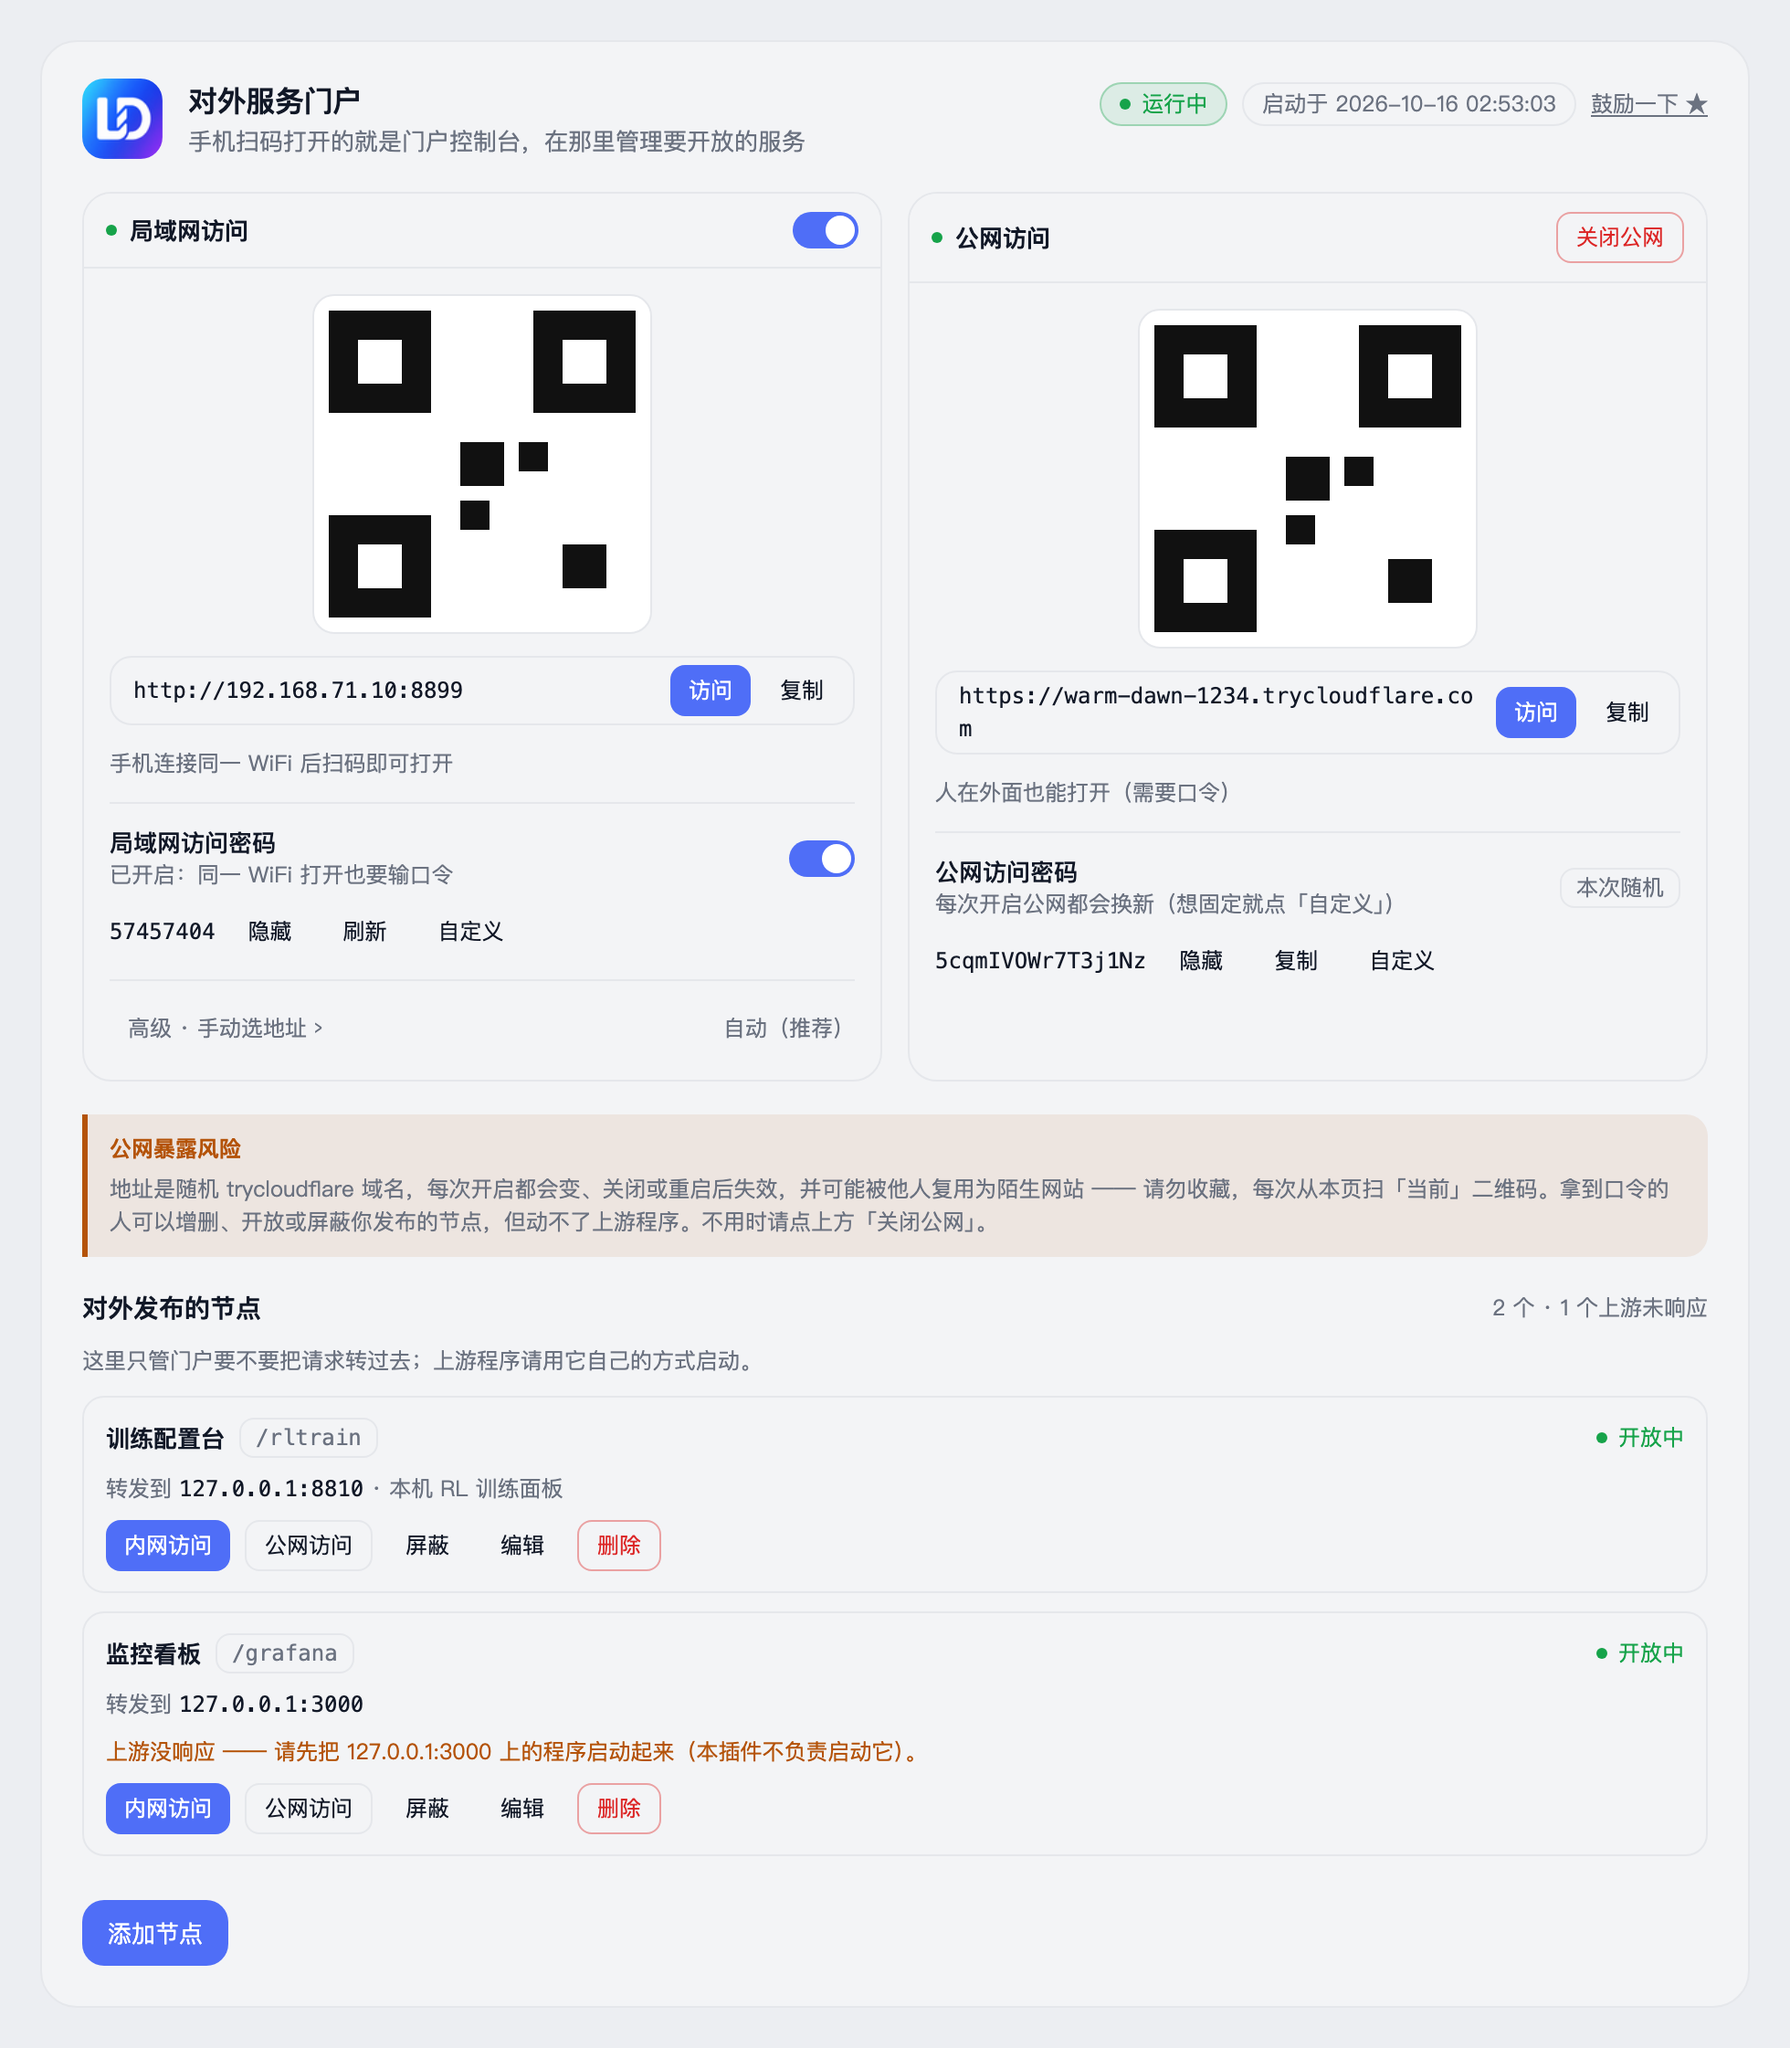
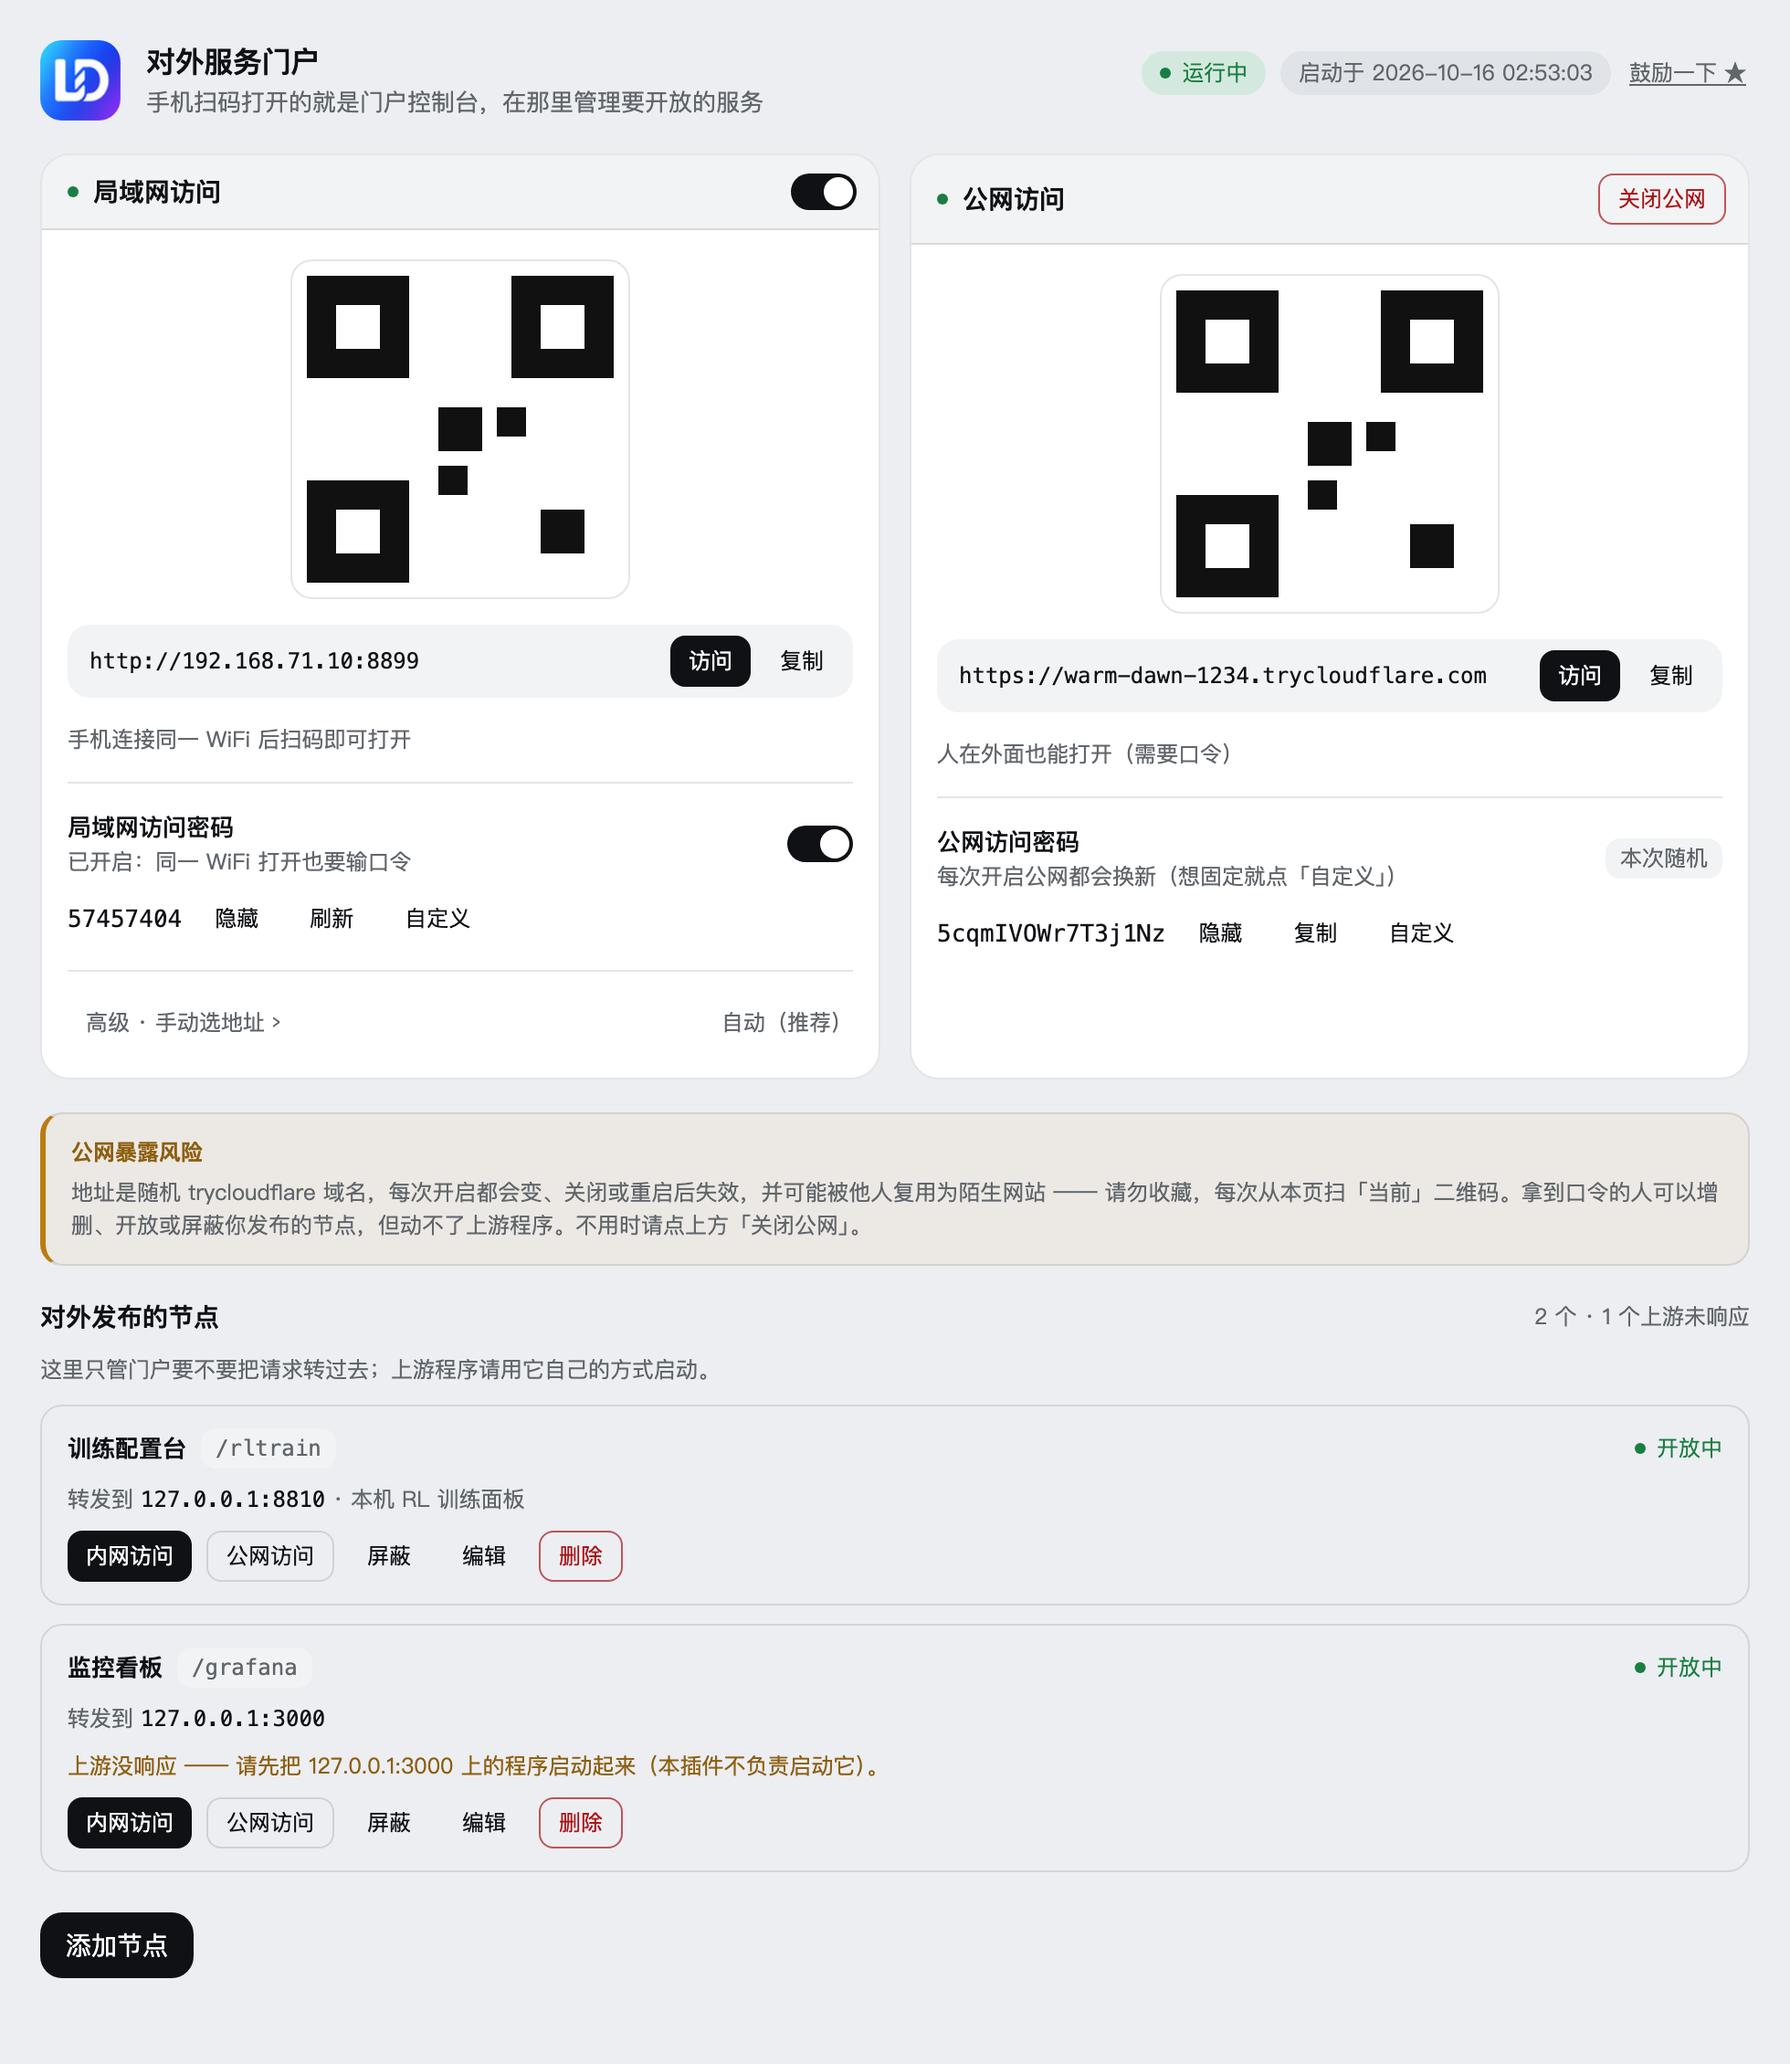
revert: 撤销 100 字详情文档，插件详情页恢复渲染完整 README（1.1.0 补）
与兄弟插件 dsh-subagent-default-model 2.1.19 同一条：meta.detail 依赖
「路径正确 + 语言链命中」这类隐式约定，失败时静默回落到包根 README、
界面看不出问题；而它唯一的作用只是缩短显示文本。

- 删除 docs/DETAIL.zh.md、docs/DETAIL.md
- locale/*.json 去掉 meta.detail（保留 meta.title/description —— 宿主靠它们
  显示插件名与简介，删了英文界面会显示包名）
- package.json#files 去掉两条 docs 路径，回到 9 项

同时修正 README 的呈现：
- 重拍 docs/assets/panel-both.png（旧图是「卡片里套卡片」的迁移前形态）
- 英文 README 补上设置页截图（之前只有门户页）
- 图注写明入口是「设置 → 左侧导航 对外服务门户」

测试：client 46/46、npm run check 150/160（10 项需宿主运行时跳过）、
test:host 160/160、parity 157/172（15 项为改动前既有失败）。

diff --git a/CHANGELOG.md b/CHANGELOG.md
@@ -32,6 +32,20 @@
   这个开关由 `ServicePortalSection` **显式传 prop**，不靠 `props.view` 猜 ——
   设置页的 props 里根本没有 `view`，猜错的两种表现都不会报错。
 
+### Reverted
+
+**撤销 1.0.12 的「100 字详情文档」，插件详情页恢复渲染完整 README。**
+
+`docs/DETAIL.zh.md`、`docs/DETAIL.md`、两个 `locale/*.json` 里的 `meta.detail`，
+以及 `package.json#files` 里的两条路径全部移除；`files` 回到 9 项。
+
+理由（与兄弟插件 dsh-subagent-default-model 2.1.19 同一条）：`meta.detail` 依赖
+「路径正确 + 语言链命中」这类**隐式约定**，失败时静默回落到包根 README、界面上
+看不出任何问题；而它唯一的作用只是缩短显示文本。README 的内容本身是有用的，只是长。
+
+`locale/*.json` 本身**保留** —— 宿主读 `meta.title` / `meta.description` 来显示
+插件名与简介，「插件叫什么」只有这一个开关，删了英文界面下会显示包名。
+
 ### Compatibility
 
 - `engines.dsh` 从 `>=0.2.1-rc.1 <0.3.0-0` 抬到 **`>=0.2.1-rc.5 <0.3.0-0`**：
@@ -43,6 +57,10 @@
 
 - README 中英文的配置位置说明同步（设置页 / `settings.section`）；
   兼容性复核表里的槽位一行换成 `settings.section` / `settings.section.icon`。
+- **界面截图重拍**：`docs/assets/panel-both.png` 还是旧形态（卡片里套卡片、
+  960 宽度上限），换成设置导航整页的实际渲染（`?s=svcboth`，仍是演示数据）。
+  英文 README 补上同一张图 —— 之前只有门户页截图，设置页在哪找不到。
+- 「与同族插件的关系」里的「设置卡片外观」改成「设置页外观 + 品牌图标」。
 
 ### Tests
 

diff --git a/README.en.md b/README.en.md
@@ -47,6 +47,14 @@ portal itself has nothing to do with poker — **any local service** can use the
 
 ## Screenshots
 
+The settings page — **Settings → "对外服务门户" in the left nav rail** (LAN / public entrances
+side by side, each with its own switch, QR code, address and password). Rendered from the real
+component via `tools/render_panel_preview.mjs` (`?s=svcboth`), with demo data only.
+
+<p align="center">
+  <img src="docs/assets/panel-both.png" width="760" alt="settings page: LAN and public entrances, each with a QR code, address and password">
+</p>
+
 The portal page (what you get after scanning the QR code — read-only: test + guide).
 Captured from a real portal process with headless Chrome via `tools/shoot_portal.py`,
 not design mockups.
